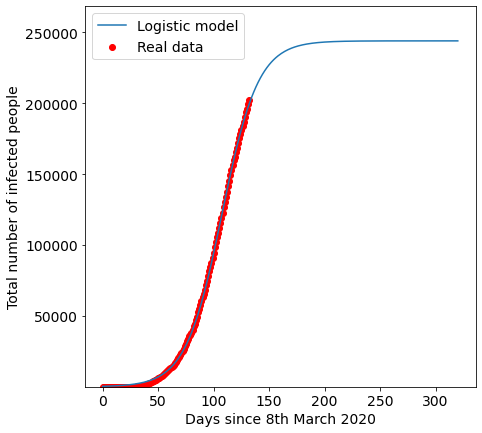
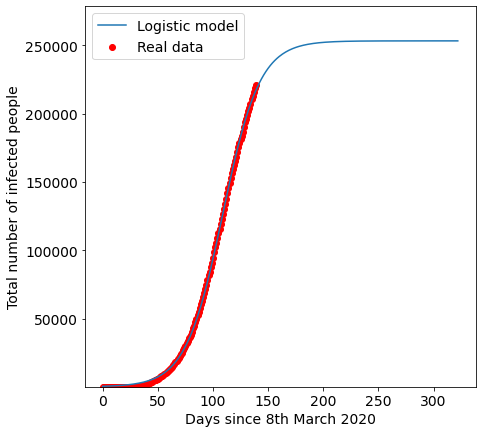
Updated 26th July 2020

diff --git a/README.md b/README.md
@@ -63,29 +63,29 @@ df.tail()
   </thead>
   <tbody>
     <tr>
-      <th>128</th>
-      <td>7-14-2020</td>
-      <td>190057</td>
+      <th>135</th>
+      <td>7-21-2020</td>
+      <td>210510</td>
     </tr>
     <tr>
-      <th>129</th>
-      <td>7-15-2020</td>
-      <td>193590</td>
+      <th>136</th>
+      <td>7-22-2020</td>
+      <td>213254</td>
     </tr>
     <tr>
-      <th>130</th>
-      <td>7-16-2020</td>
-      <td>196323</td>
+      <th>137</th>
+      <td>7-23-2020</td>
+      <td>216110</td>
     </tr>
     <tr>
-      <th>131</th>
-      <td>7-17-2020</td>
-      <td>199357</td>
+      <th>138</th>
+      <td>7-24-2020</td>
+      <td>218658</td>
     </tr>
     <tr>
-      <th>132</th>
-      <td>7-18-2020</td>
-      <td>202066</td>
+      <th>139</th>
+      <td>7-25-2020</td>
+      <td>221178</td>
     </tr>
   </tbody>
 </table>
@@ -157,29 +157,29 @@ data.tail()
   </thead>
   <tbody>
     <tr>
-      <th>128</th>
-      <td>128</td>
-      <td>190057</td>
+      <th>135</th>
+      <td>135</td>
+      <td>210510</td>
     </tr>
     <tr>
-      <th>129</th>
-      <td>129</td>
-      <td>193590</td>
+      <th>136</th>
+      <td>136</td>
+      <td>213254</td>
     </tr>
     <tr>
-      <th>130</th>
-      <td>130</td>
-      <td>196323</td>
+      <th>137</th>
+      <td>137</td>
+      <td>216110</td>
     </tr>
     <tr>
-      <th>131</th>
-      <td>131</td>
-      <td>199357</td>
+      <th>138</th>
+      <td>138</td>
+      <td>218658</td>
     </tr>
     <tr>
-      <th>132</th>
-      <td>132</td>
-      <td>202066</td>
+      <th>139</th>
+      <td>139</td>
+      <td>221178</td>
     </tr>
   </tbody>
 </table>
@@ -227,9 +227,9 @@ print('Days from start when cumulative case counts will peak: ', b)
 print('Total cumulative cases that will be reached: ', c)
 ```
 
-    Metric for speed of infections:  16.316420148149366
-    Days from start when cumulative case counts will peak:  107.52011285399645
-    Total cumulative cases that will be reached:  244082.48926340725
+    Metric for speed of infections:  16.76103671399762
+    Days from start when cumulative case counts will peak:  108.91553934285692
+    Total cumulative cases that will be reached:  253336.68385770003
     
 
 
@@ -240,7 +240,7 @@ print('Errors in a, b and c respectively:\n', errors)
 ```
 
     Errors in a, b and c respectively:
-     [0.09591223436535969, 0.22296392727856204, 1365.4265989757657]
+     [0.10437443718603687, 0.2173612433216009, 1278.9245248550317]
     
 
 
@@ -252,8 +252,8 @@ print('Estimated time of peak between', start_date + timedelta(days=(b-errors[1]
 print('Estimated total number of infections betweeen ', (c - errors[2]), ' and ', (c + errors[2]))
 ```
 
-    Estimated time of peak between 2020-06-23  and  2020-06-23
-    Estimated total number of infections betweeen  242717.0626644315  and  245447.915862383
+    Estimated time of peak between 2020-06-24  and  2020-06-25
+    Estimated total number of infections betweeen  252057.759332845  and  254615.60838255507
     
 
 To extrapolate the curve to the future, use the fsolve function from scipy.
@@ -301,7 +301,7 @@ for i in x]
 print('Mean squared error: ', mean_squared_error(y,y_pred_logistic))
 ```
 
-    Mean squared error:  1040576.8324953101
+    Mean squared error:  1687380.613076629
     
 
 # Epilogue
@@ -318,7 +318,7 @@ We should be mindful of some caveats:
 
 * If there is a second outbreak before the first outbreak subsides, the curve may not be sigmoid shaped and hence the results may not be as meaningful.
 
-* The total reported case numbers will possibly be greater than 238000, because the daily new cases is still rising in some cities other than Dhaka. It is not unsound to expect that the total reported case count for this first instance of Covid-19 outbreak could very well reach 300000 or more.
+* The total reported case numbers will possibly be greater than 260000, because the daily new cases is still rising in some cities other than Dhaka. It is not unsound to expect that the total reported case count for this first instance of Covid-19 outbreak could very well reach 300000 or more.
 
 * The government recently hiked the prices of tests which may have led to increased unwillingness in suspected candidates to actually test for the disease, and that may have influenced the recent confirmed case counts.
 
